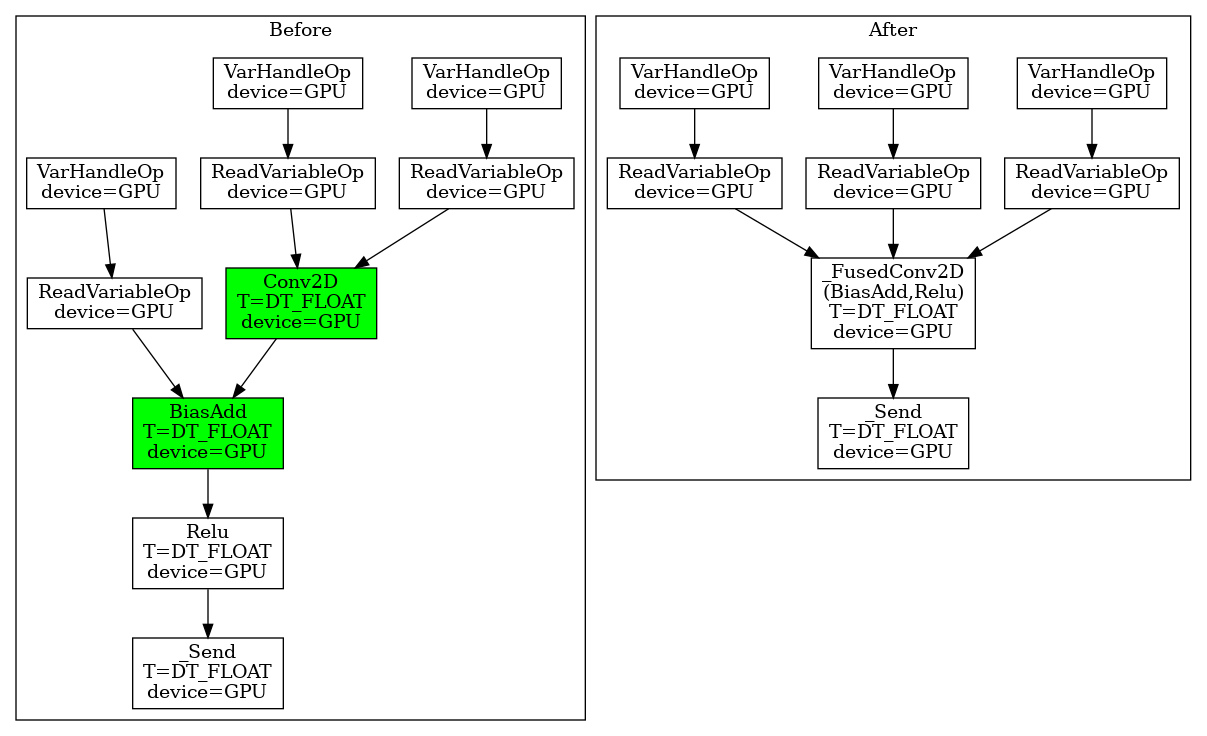
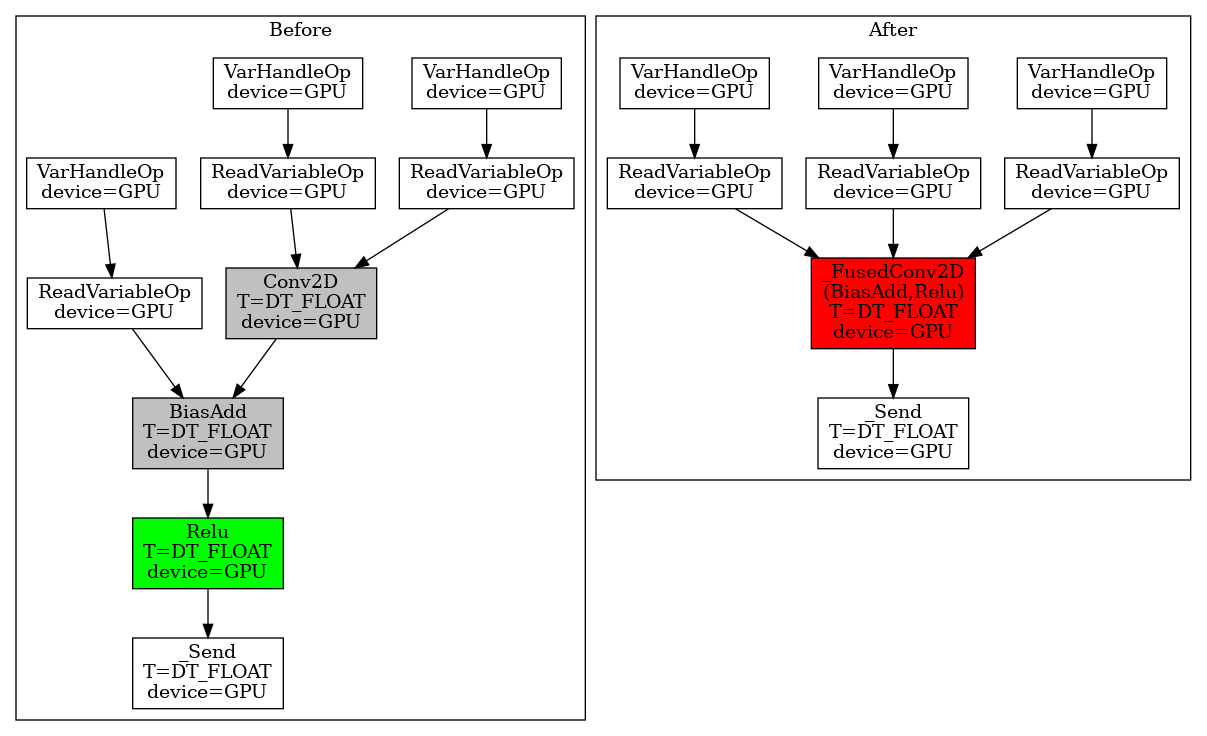
Add grey color support

diff --git a/tf_op_graph_vis/utils.py b/tf_op_graph_vis/utils.py
@@ -170,6 +170,7 @@ def pydot_dot_to_pic(dot, to_file):
 
 def compare_graphs(cluster0, cluster1, dot):
   global _name_suffix
+
   def color_nodes(c0, c1, color, need_suffix):
     for n0 in c0.get_nodes():
       need_strip = False
@@ -184,9 +185,18 @@ def compare_graphs(cluster0, cluster1, dot):
       if need_strip:
         node_name = '\"' + node_name + '\"'
       matched_nodes = c1.get_node(node_name)
+
+      # We view the two nodes are identical if they have the same name (a unique
+      # identifier) and the same label (which includes op/device info, data
+      # type, etc.).
+      node_label = n0.get_label()
       if (len(matched_nodes) == 0):
         n0.set_style('filled')
+        n0.set_fillcolor('grey')
+      elif (matched_nodes[0].get_label() != node_label):
+        n0.set_style('filled')
         n0.set_fillcolor(color)
+
   color_nodes(cluster0, cluster1, 'green', True)
   color_nodes(cluster1, cluster0, 'red', False)
 
